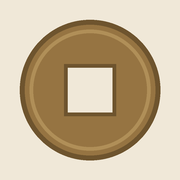
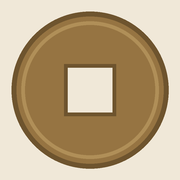
init: 收藏檔案 — 6 枚錢幣入庫 + 真偽閘門 app

Changed region(s): [[0.0556, 0.0556, 0.9444, 0.9444]]

diff --git a/index.html b/index.html
@@ -6,8 +6,15 @@
 <title>收藏檔案 · 無虛</title>
 <meta name="description" content="私人藏品數碼目錄：錢幣、紙幣、郵票、手錶、化石、礦石。只收錄目視可確認真品及待確認物件。">
 <meta name="theme-color" content="#f0e8d8">
+<meta name="mobile-web-app-capable" content="yes">
+<meta name="apple-mobile-web-app-capable" content="yes">
+<meta name="apple-mobile-web-app-status-bar-style" content="default">
+<meta name="apple-mobile-web-app-title" content="收藏檔案">
 <link rel="manifest" href="manifest.webmanifest">
-<link rel="apple-touch-icon" href="icons/icon-192.png">
+<link rel="apple-touch-icon" sizes="180x180" href="icons/apple-touch-icon.png">
+<link rel="apple-touch-icon" sizes="192x192" href="icons/icon-192.png">
+<link rel="icon" type="image/png" sizes="192x192" href="icons/icon-192.png">
+<link rel="icon" type="image/png" sizes="512x512" href="icons/icon-512.png">
 <style>
 html{font-size:32px}
 *{box-sizing:border-box}

diff --git a/admin.html b/admin.html
@@ -6,8 +6,14 @@
 <title>收藏檔案 · 管理</title>
 <meta name="theme-color" content="#2f3a24">
 <meta name="robots" content="noindex,nofollow">
-<link rel="manifest" href="manifest.webmanifest">
-<link rel="apple-touch-icon" href="icons/icon-192.png">
+<meta name="mobile-web-app-capable" content="yes">
+<meta name="apple-mobile-web-app-capable" content="yes">
+<meta name="apple-mobile-web-app-status-bar-style" content="default">
+<meta name="apple-mobile-web-app-title" content="收藏管理">
+<link rel="manifest" href="manifest-admin.webmanifest">
+<link rel="apple-touch-icon" sizes="180x180" href="icons/apple-touch-icon.png">
+<link rel="apple-touch-icon" sizes="192x192" href="icons/icon-192.png">
+<link rel="icon" type="image/png" sizes="192x192" href="icons/icon-192.png">
 <style>
 html{font-size:32px}
 *{box-sizing:border-box}

diff --git a/sw.js b/sw.js
@@ -1,14 +1,16 @@
 /* 收藏檔案 Service Worker — 離線可用 */
-var CACHE = "momo-coll-v3";
+var CACHE = "momo-coll-v4";
 var SHELL = [
   "./",
   "index.html",
   "admin.html",
   "manifest.webmanifest",
+  "manifest-admin.webmanifest",
   "data/public.json",
   "data/schema.json",
   "icons/icon-192.png",
-  "icons/icon-512.png"
+  "icons/icon-512.png",
+  "icons/apple-touch-icon.png"
 ];
 
 self.addEventListener("install", function (e) {
